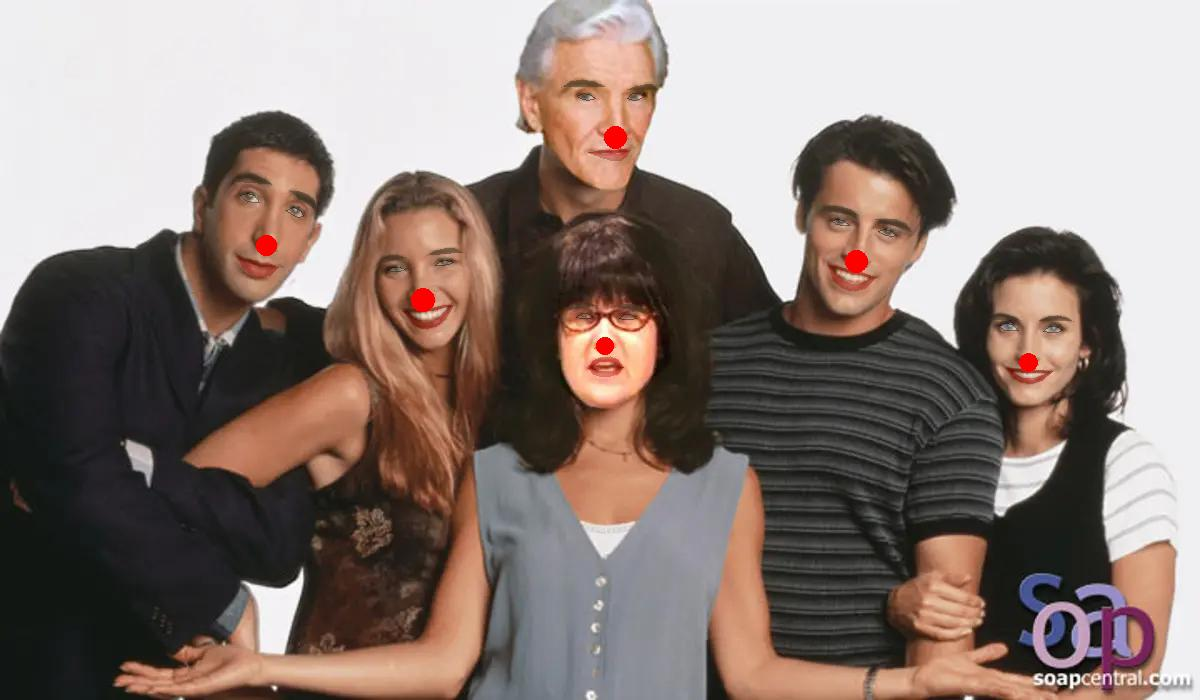
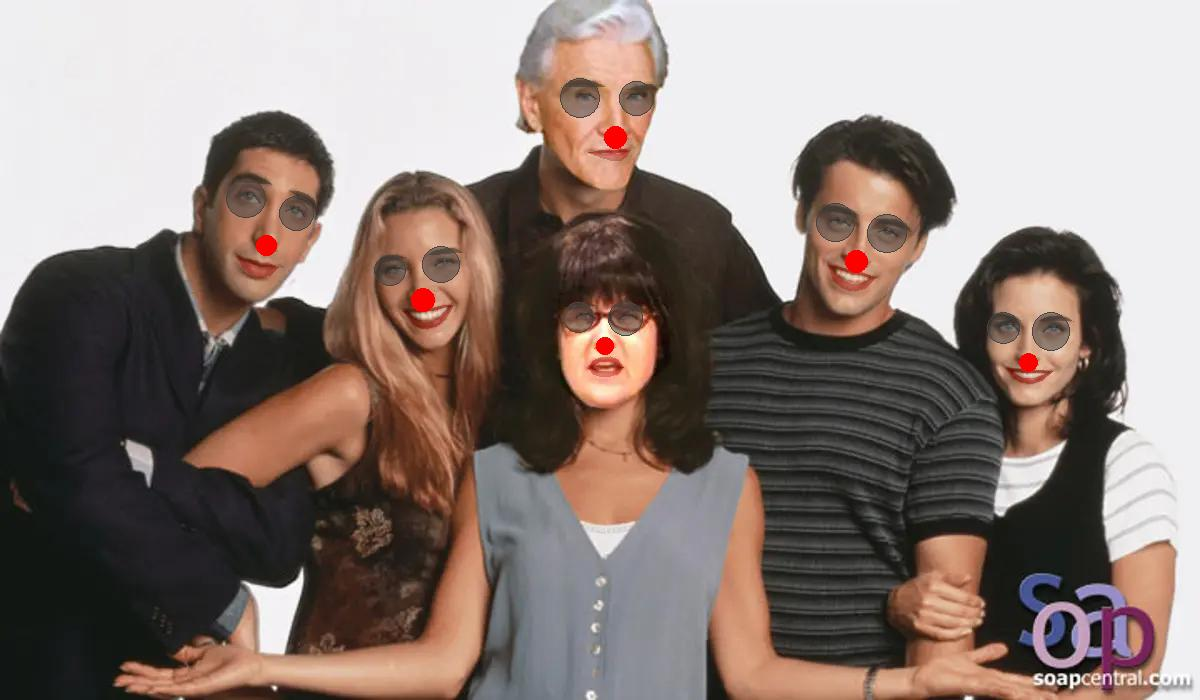
added more features for facial filters

diff --git a/src/filter_faces.py b/src/filter_faces.py
@@ -1,5 +1,5 @@
 from PIL import Image, ImageDraw
-from tag_faces import *
+from tagger import *
 from params import *
 import face_recognition
 
@@ -35,8 +35,8 @@ for face_landmarks in face_landmarks_list:
         draw.polygon(face_landmarks['right_eye'], fill=(255, 255, 255, 30))
 
     if pref["isEyeLiner"]:
-        draw.line(face_landmarks['left_eye'] + [face_landmarks['left_eye'][0]], fill=(0, 0, 0, 110), width=1)
-        draw.line(face_landmarks['right_eye'] + [face_landmarks['right_eye'][0]], fill=(0, 0, 0, 110), width=1)
+        draw.line(face_landmarks['left_eye'][0:int(len(face_landmarks['left_eye'])/1.5)], fill=(0, 0, 0, 110), width=2)
+        draw.line(face_landmarks['right_eye'][0:int(len(face_landmarks['right_eye'])/1.5)], fill=(0, 0, 0, 110), width=2)
     
     if pref["isClown"]:
         img_nose = Image.open('img_components/clown_nose.png')
@@ -58,9 +58,25 @@ for face_landmarks in face_landmarks_list:
         nose_coords = (int(cx / counter), int(cy / counter))
         cx = int((min_x + max_x) / 2)
         cy = int((min_y + max_y) / 2)
-        r = abs(max_x - min_x)
+        d = abs(max_x - min_x)
+        draw.ellipse((min_x, cy - .5 * d, max_x, cy + .5 * d), fill=(255, 0, 0), outline=(0, 0, 0, 255), width=0)
 
-        draw.ellipse((min_x, cy - .5 * r, max_x, cy + .5 * r), fill=(255, 0, 0), outline=(0, 0, 0, 255), width=0)
+    if pref["isSunglasses"]:
+        smol_x, lorge_x = (face_landmarks['left_eye'][0][0] + face_landmarks['left_eyebrow'][0][0]) / 2, (face_landmarks['left_eye'][int(len(face_landmarks['left_eye'])/1.5)][0] + face_landmarks['left_eyebrow'][int(len(face_landmarks['left_eyebrow'])/1.5)][0]) / 2
+        smol_y, lorge_y = face_landmarks['left_eye'][0][1], face_landmarks['left_eye'][int(len(face_landmarks['left_eye'])/1.5)][1]
+        avg_x = (smol_x + lorge_x) / 2
+        avg_y = (smol_y + lorge_y) / 2
+        r = (lorge_x - smol_x) / 1.1
+        draw.ellipse((avg_x - r, avg_y - r, avg_x + r, avg_y + r), fill=(60, 60, 60, 128), outline=(70, 70, 70, 255), width=1)
 
-    pil_image.show()
+        smol_x, lorge_x = (face_landmarks['right_eye'][0][0] + face_landmarks['right_eyebrow'][0][0]) / 2, (face_landmarks['right_eye'][int(len(face_landmarks['right_eye'])/1.5)][0] + face_landmarks['right_eyebrow'][int(len(face_landmarks['right_eyebrow'])/1.5)][0]) / 2
+        smol_y, lorge_y = face_landmarks['right_eye'][0][1], face_landmarks['right_eye'][int(len(face_landmarks['right_eye'])/1.5)][1]
+        avg_x = (smol_x + lorge_x) / 2
+        avg_y = (smol_y + lorge_y) / 2
+        r = (lorge_x - smol_x) / 1.1
+        draw.ellipse((avg_x - r, avg_y - r, avg_x + r, avg_y + r), fill=(60, 60, 60, 128), outline=(70, 70, 70, 255), width=1)
+
     pil_image.save(f"{OUTDIR}beautified_{PICTURE}")
+
+res = Image.open(f"{OUTDIR}beautified_{PICTURE}")
+res.show()
